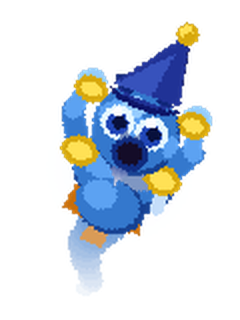
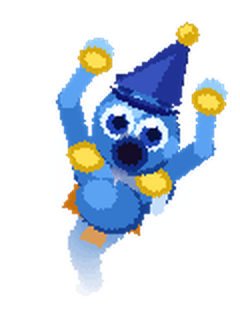
fix: scared arms thrown high above head
upper arm now swings out+up 26px, forearm continues up 24px more —
fists reach y≈36 in sprite space, above the hat brim. gold wrist
cuffs visible near top of frame when dragging.

Changed region(s): [[0.2333, 0.0938, 0.4958, 0.5625], [0.7292, 0.2188, 0.9625, 0.5312], [0.5542, 0.5, 0.7583, 0.625]]

diff --git a/gen_sprites.py b/gen_sprites.py
@@ -428,24 +428,24 @@ def draw_arms_drifting(draw, cx, chest_y, t):
         ell(draw, sx, ay, 5, 3, GOLD_LIGHT)
 
 def draw_arms_scared(draw, cx, chest_y, t):
-    """Both arms flung up in panic — fast trembling."""
-    shake = int(math.sin(t * 8 * math.pi) * 2)
-    ay    = chest_y - 2 + shake
+    """Both arms flung UP in panic — thrown above head level."""
+    shake = int(math.sin(t * 8 * math.pi) * 3)
+    ay    = chest_y + 2 + shake
     for sign in [-1, 1]:
-        sx = cx + sign * 22
-        # upper arm — outward and up
-        ex = cx + sign * 32
-        ey = ay - 18
+        sx = cx + sign * 18       # shoulder — close to body
+        # upper arm: sharp diagonal outward + up
+        ex = cx + sign * 36
+        ey = ay - 26
         thick_line(draw, sx, ay, ex, ey, BODY_MID,   w=10)
-        # forearm — continues up, slight inward curl
-        fx = cx + sign * 28
-        fy = ey - 15
+        # forearm: continues steeply upward
+        fx = cx + sign * 30
+        fy = ey - 24               # fists end up well above head
         thick_line(draw, ex, ey, fx, fy, BODY_LIGHT, w=9)
-        ell(draw, fx, fy - 2, 7, 6, BODY_BRIGHT)    # fist up in air
-        ell(draw, sx, ay,     9, 7, GOLD)             # cuff at shoulder
-        ell(draw, sx, ay,     6, 4, GOLD_LIGHT)
-        ell(draw, fx - sign, fy + 2, 8, 6, GOLD)     # cuff at wrist
-        ell(draw, fx - sign, fy + 2, 5, 3, GOLD_LIGHT)
+        ell(draw, fx, fy - 4, 7, 6, BODY_BRIGHT)     # fist
+        ell(draw, sx, ay - 2,  9, 7, GOLD)            # shoulder cuff
+        ell(draw, sx, ay - 2,  6, 4, GOLD_LIGHT)
+        ell(draw, fx, fy + 1,  8, 6, GOLD)            # wrist cuff
+        ell(draw, fx, fy + 1,  5, 3, GOLD_LIGHT)
 
 def draw_arms_grab(draw, cx, chest_y):
     """Arms up — surprised/grabbed pose."""
